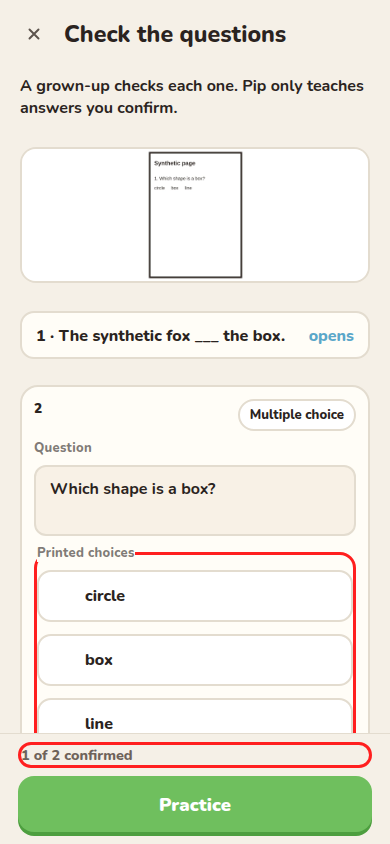
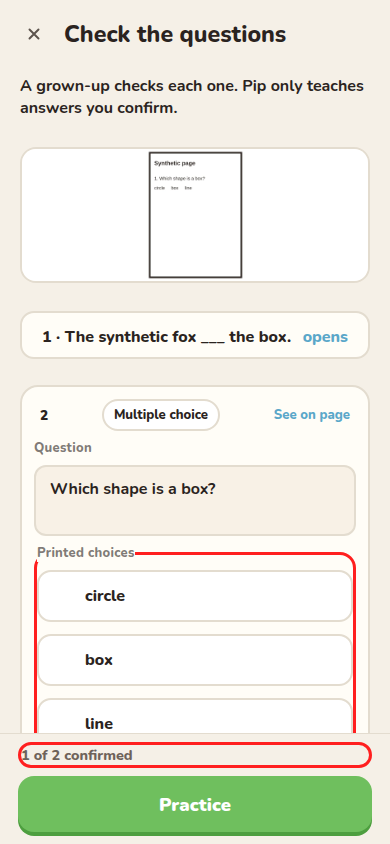
fix: keep confirmed question cards on one line
See on page and Edit sit under the question so the summary no longer wraps through the answer.

diff --git a/src/screens/ScanReviewScreen.tsx b/src/screens/ScanReviewScreen.tsx
@@ -88,10 +88,12 @@ export default function ScanReviewScreen({
                   <span>{index + 1} · {oneLine(q)}</span>
                   <span className="review-collapsed__answer">{summary(q)}</span>
                 </button>
-                <button type="button" className="see-page" onClick={openPage}>See on page</button>
-                <button type="button" className="review-collapsed__edit" onClick={() => setOpenIds((ids) => [...ids, q.id])}>
-                  Edit
-                </button>
+                <div className="review-collapsed__actions">
+                  <button type="button" className="see-page" onClick={openPage}>See on page</button>
+                  <button type="button" className="review-collapsed__edit" onClick={() => setOpenIds((ids) => [...ids, q.id])}>
+                    Edit
+                  </button>
+                </div>
               </div>
             );
           }

diff --git a/src/styles/app.css b/src/styles/app.css
@@ -2572,9 +2572,9 @@ body.calm-motion *, body.calm-motion *::before, body.calm-motion *::after { anim
   color: #5AA7C9;
   min-height: 32px;
 }
-.review-collapsed { align-items: center; }
+.review-collapsed { flex-direction: column; align-items: stretch; }
 .review-collapsed__open {
-  flex: 1;
+  width: 100%;
   display: flex;
   justify-content: space-between;
   gap: 8px;
@@ -2582,6 +2582,7 @@ body.calm-motion *, body.calm-motion *::before, body.calm-motion *::after { anim
   font-weight: 800;
   min-height: 44px;
 }
+.review-collapsed__actions { display: flex; justify-content: flex-end; gap: 12px; }
 .review-collapsed__edit { font-weight: 800; color: rgba(42, 35, 32, 0.6); min-height: 44px; }
 .review-card__open { font-weight: 900; min-height: 32px; }
 .review-collapsed {
